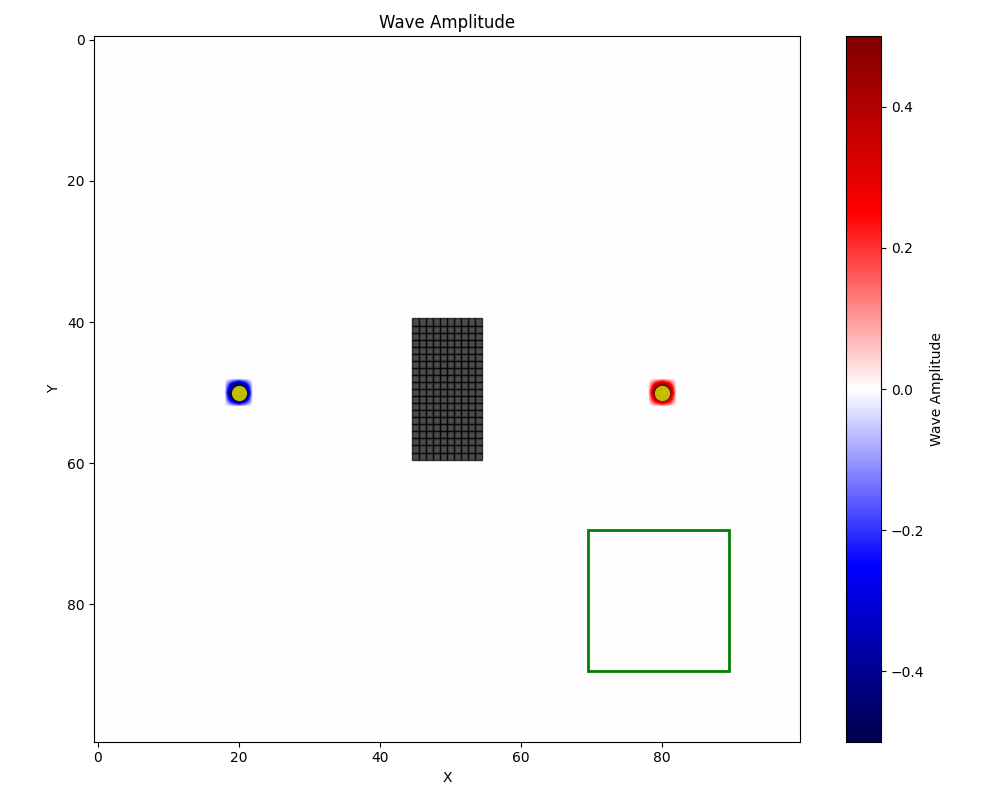
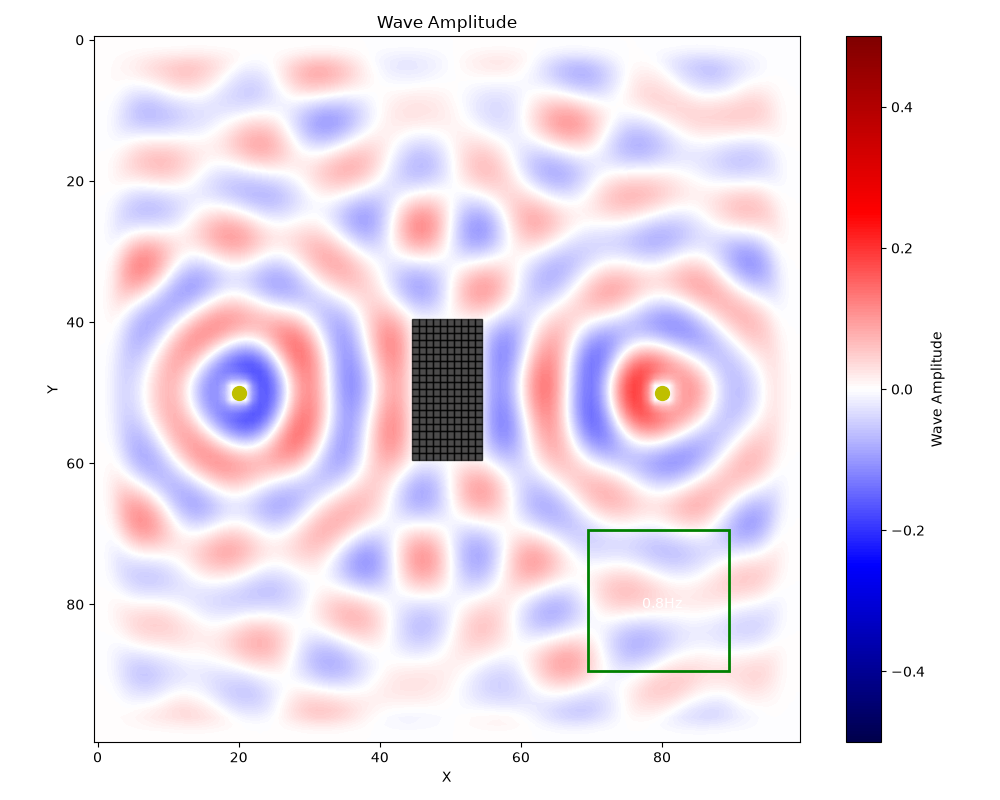
Fix wave medium: solve the damped wave equation with a CFL-stable time step
The update was written as a leapfrog wave-equation step but set
'previous = current' before using it and used the neighbour mean as the
Laplacian, so each step was a first-order damped smoothing of a driven
field: waves never left the sources (and a direct fix blew up, because
sources added to the displacement every step and the cubic term was
explicit).

WaveComputingMedium now integrates u_tt = c^2 lap(u) - gamma u_t - nl u^3:
- leapfrog with the 9-point Laplacian scaled to approximate lap(u);
- each output step (time_step) is split into substeps with
  c*dt/dx within 90% of the stencil's CFL limit, so any wave speed is stable;
- new wave_speed parameter (cells per time unit, default 10);
  'diffusion' is kept as a deprecated alias for c^2;
- damping = fraction of wave velocity kept per output step;
- hard sources and memory elements (they set the field in their cells),
  a 5-cell sponge for 'absorbing' edges, real mirror/wrap edges for
  'reflecting'/'periodic' (the old periodic rule added half of the
  opposite edge);
- resonant regions lose no energy while their dominant frequency matches
  their tuning (instead of an unbounded x1.1 per step gain);
- wave_energy() gives the conserved discrete energy; the per-pixel
  frequency/phase estimate is vectorised (the wave demo runs in ~5 s
  instead of ~60 s).

tests/test_wave_physics.py: CFL substeps, exact energy conservation
without damping, monotone decay with damping, pulse arrival at the wave
[…]

diff --git a/wave_based_computing/wave_medium.py b/wave_based_computing/wave_medium.py
@@ -1,20 +1,24 @@
 """
 Wave Computing Medium -- core simulation engine.
 
-Implements a 2D wave-like medium with sources, obstacles,
-resonant regions, and memory elements.
+A 2D medium obeying the damped wave equation
 
-Note on the update rule: it is written in the form of a leapfrog wave-equation
-step (2*u - u_prev + D*dt^2*L), but `previous` is set to `current` before it is
-used and L is the neighbour mean (not mean minus centre), so each step is in
-effect u_next = damping * (u + D*dt^2 * neighbour_mean(u)) - nonlinearity*u^3,
-plus sources and memory elements: a first-order, damped, slowly spreading driven
-field rather than a second-order wave equation. With the defaults
-(D*dt^2 = 0.002) activity stays close to the sources. Making it a true wave
-equation also needs the source and nonlinear terms rescaled (left as an open
-decision; see SESSION_LOG.md). Information is encoded in
-wave properties (amplitude, frequency, phase) and computation
-emerges from wave interactions.
+    u_tt = c^2 * laplacian(u) - gamma * u_t - nonlinearity * u^3
+
+with point sources, obstacles, resonant regions and memory elements. Information is
+encoded in wave properties (amplitude, frequency, phase) and computation emerges
+from wave interactions.
+
+Numerics: leapfrog (second order in time) with a 9-point Laplacian on a grid of
+spacing dx (cells). Each output step of length `time_step` is split into
+`substeps` internal steps dt_sub chosen so that c * dt_sub / dx satisfies the CFL
+condition of this stencil (with a safety factor), so the scheme is stable for any
+wave speed. `damping` is the fraction of wave velocity kept per output step.
+Sources and memory elements are "hard" (they set the field in their cells), the
+absorbing boundary is a 5-cell sponge, resonant regions lose no energy while
+their dominant frequency matches their tuning. (Before 2026-11-11 the update
+overwrote the previous state before using it, so it was a first-order smoothing
+rather than a wave equation; see SESSION_LOG.md.)
 """
 
 import numpy as np
@@ -26,27 +30,43 @@ from sklearn.decomposition import PCA
 
 
 class WaveComputingMedium:
+    # 9-point Laplacian: neighbour mean (kernel below) minus centre ~= LAPLACIAN_SCALE * dx^2 * laplacian(u)
+    LAPLACIAN_SCALE = 0.3
+    # Largest eigenvalue of -laplacian_h for dx = 1 (checkerboard mode: 1.6 / 0.3)
+    LAMBDA_MAX = 1.6 / 0.3
+    # Leapfrog is stable for c * dt * sqrt(LAMBDA_MAX) / dx <= 2; keep this fraction of the limit
+    CFL_SAFETY = 0.9
+    SPONGE_WIDTH = 5
+
     def __init__(self, size=(100, 100), boundary='absorbing', damping=0.99,
-                diffusion=0.2, nonlinearity=0.1, time_step=0.1):
+                wave_speed=10.0, nonlinearity=0.1, time_step=0.1, dx=1.0, diffusion=None):
         """
         Initialize a wave computing medium with specified properties.
 
         Parameters:
         - size: Size of the 2D grid as (width, height); arrays have shape (height, width)
           and are indexed [y, x]
-        - boundary: Boundary condition ('absorbing', 'reflecting', 'periodic')
-        - damping: Wave damping factor
-        - diffusion: Diffusion coefficient
-        - nonlinearity: Degree of nonlinearity in wave propagation
-        - time_step: Time step for simulation
+        - boundary: 'absorbing' (5-cell sponge), 'reflecting' (mirror, zero normal
+          gradient) or 'periodic' (wrap-around)
+        - damping: fraction of the wave velocity kept per output step (1 = lossless)
+        - wave_speed: wave speed c in grid cells per time unit
+        - nonlinearity: coefficient of the cubic restoring term (-nonlinearity * u^3)
+        - time_step: output time step (time units); split into CFL-stable substeps
+        - dx: grid spacing (cells)
+        - diffusion: deprecated alias for c^2 (if given, wave_speed = sqrt(diffusion))
         """
         self.width, self.height = size
         shape = (self.height, self.width)
         self.boundary = boundary
         self.damping = damping
-        self.diffusion = diffusion
+        if diffusion is not None:
+            wave_speed = float(np.sqrt(diffusion))
+        self.wave_speed = float(wave_speed)
+        self.diffusion = self.wave_speed ** 2       # c^2, kept for callers that read it
         self.nonlinearity = nonlinearity
         self.time_step = time_step
+        self.dx = dx
+        self.substeps, self.dt_sub = self._cfl_substeps()
 
         # Initialize wave state variables
         self.current = np.zeros(shape)
@@ -54,8 +74,9 @@ class WaveComputingMedium:
         self.frequency = np.zeros(shape)
         self.phase = np.zeros(shape)
 
-        # Create diffusion kernel
+        # Neighbour-weight kernel for the Laplacian, sponge mask for absorbing edges
         self.kernel = self._create_diffusion_kernel()
+        self.sponge = self._sponge_mask(shape)
 
         # Initialize wave sources and obstacles
         self.sources = []
@@ -72,8 +93,42 @@ class WaveComputingMedium:
         self.energy_history = []
         self.peak_frequency_history = []
 
+    def _cfl_substeps(self):
+        """Number of internal steps per output step and their length, from the CFL condition."""
+        if self.wave_speed <= 0:
+            return 1, self.time_step
+        dt_max = self.CFL_SAFETY * 2.0 * self.dx / (self.wave_speed * np.sqrt(self.LAMBDA_MAX))
+        n = max(1, int(np.ceil(self.time_step / dt_max - 1e-12)))
+        return n, self.time_step / n
+
+    def _sponge_mask(self, shape):
+        """Absorbing layer: factor exp(-(0.2 * (width - i))^2) in the i-th cell from each edge, 1 inside."""
+        mask = np.ones(shape)
+        bw = self.SPONGE_WIDTH
+        for i in range(bw):
+            f = np.exp(-(0.2 * (bw - i)) ** 2)
+            for row in (i, shape[0] - 1 - i):
+                if 0 <= row < shape[0]:
+                    mask[row, :] = np.minimum(mask[row, :], f)
+            for col in (i, shape[1] - 1 - i):
+                if 0 <= col < shape[1]:
+                    mask[:, col] = np.minimum(mask[:, col], f)
+        return mask
+
+    def laplacian(self, u):
+        """9-point Laplacian (mirror edges, or wrap-around for periodic boundaries)."""
+        bc = 'wrap' if self.boundary == 'periodic' else 'symm'
+        mean = convolve2d(u, self.kernel, mode='same', boundary=bc)
+        return (mean - u) / (self.LAPLACIAN_SCALE * self.dx ** 2)
+
+    def wave_energy(self):
+        """Discrete leapfrog energy 0.5*sum(((u - u_prev)/dt)^2) - 0.5*c^2*sum(u * L(u_prev)) (exactly conserved
+        without damping, sources, nonlinearity or sponge on a periodic grid)."""
+        v = (self.current - self.previous) / self.dt_sub
+        return 0.5 * np.sum(v ** 2) - 0.5 * self.diffusion * np.sum(self.current * self.laplacian(self.previous))
+
     def _create_diffusion_kernel(self):
-        """Create a 3x3 kernel for wave diffusion."""
+        """Create the 3x3 neighbour-weight kernel (sums to 1, zero centre) used for the Laplacian."""
         kernel = np.array([
             [0.05, 0.2, 0.05],
             [0.2, 0.0, 0.2],
@@ -114,71 +169,57 @@ class WaveComputingMedium:
             return self.memory_elements[(x, y)][0]
         return 0.0
 
-    def update(self, t):
-        """Update the wave medium for one time step (see the module note on the update rule)."""
-        self.previous = self.current.copy()
-
-        laplacian = convolve2d(self.current, self.kernel, mode='same', boundary='symm')
-
-        next_state = (2 * self.current - self.previous
-                     + self.diffusion * self.time_step**2 * laplacian)
-
-        next_state *= self.damping
-
-        # Boundary conditions
-        if self.boundary == 'absorbing':
-            boundary_mask = np.ones_like(next_state)
-            boundary_width = 5
-            for i in range(boundary_width):
-                factor = 1.0 - (i / boundary_width)**2
-                boundary_mask[i, :] *= factor
-                boundary_mask[-i-1, :] *= factor
-                boundary_mask[:, i] *= factor
-                boundary_mask[:, -i-1] *= factor
-            next_state *= boundary_mask
-        elif self.boundary == 'periodic':
-            next_state[0, :] += 0.5 * next_state[-1, :]
-            next_state[-1, :] += 0.5 * next_state[0, :]
-            next_state[:, 0] += 0.5 * next_state[:, -1]
-            next_state[:, -1] += 0.5 * next_state[:, 0]
-
-        # Nonlinearity
-        if self.nonlinearity > 0:
-            nonlinear_term = self.nonlinearity * self.current**3
-            next_state -= nonlinear_term
-
-        # Obstacles
-        next_state[self.obstacles] = 0
-
-        # Resonant regions
-        for (x_min, x_max, y_min, y_max), freq in self.resonant_regions.items():
-            if len(self.history) > 10:
-                local_freq = self._estimate_local_frequency(x_min, x_max, y_min, y_max)
-                resonance_factor = 1.0 + 0.1 * np.exp(-((local_freq - freq) / 0.1)**2)
-                next_state[y_min:y_max, x_min:x_max] *= resonance_factor
-
-        # Wave sources
+    def _source_field(self, t):
+        """Sum of the active sources' values at time t on their 3x3 Gaussian footprints, and the covered cells."""
+        field = np.zeros_like(self.current)
+        covered = np.zeros(self.current.shape, dtype=bool)
         for source in self.sources:
+            if source['duration'] is not None and t >= source['start_time'] + source['duration']:
+                continue
             x, y = source['position']
-            amplitude = source['amplitude']
-            frequency = source['frequency']
-            phase = source['phase']
+            value = source['amplitude'] * np.sin(2 * np.pi * source['frequency'] * t + source['phase'])
+            for dx in range(-1, 2):
+                for dy in range(-1, 2):
+                    nx_pos, ny_pos = x + dx, y + dy
+                    if 0 <= nx_pos < self.width and 0 <= ny_pos < self.height:
+                        field[ny_pos, nx_pos] += value * np.exp(-(dx**2 + dy**2) / 2)
+                        covered[ny_pos, nx_pos] = True
+        return field, covered
 
-            if source['duration'] is None or t < source['start_time'] + source['duration']:
-                source_value = amplitude * np.sin(2 * np.pi * frequency * t + phase)
-                for dx in range(-1, 2):
-                    for dy in range(-1, 2):
-                        nx_pos, ny_pos = x + dx, y + dy
-                        if 0 <= nx_pos < self.width and 0 <= ny_pos < self.height:
-                            weight = np.exp(-(dx**2 + dy**2) / 2)
-                            next_state[ny_pos, nx_pos] += source_value * weight
+    def _velocity_factor(self):
+        """Per-cell fraction of velocity kept per substep: `damping` spread over the substeps, and no loss in a
+        resonant region while its dominant frequency matches its tuning (match weight exp(-((f - f0)/0.1)^2))."""
+        keep = np.full(self.current.shape, self.damping ** (1.0 / self.substeps))
+        if len(self.history) > 10:
+            for (x_min, x_max, y_min, y_max), freq in self.resonant_regions.items():
+                local_freq = self._estimate_local_frequency(x_min, x_max, y_min, y_max)
+                match = np.exp(-((local_freq - freq) / 0.1) ** 2)
+                region = keep[y_min:y_max, x_min:x_max]
+                keep[y_min:y_max, x_min:x_max] = np.maximum(region, region ** (1.0 - match))
+        return keep
 
-        # Memory elements
+    def update(self, t):
+        """Advance the medium by one output step (time t -> t + time_step) in CFL-stable substeps."""
+        dt = self.dt_sub
+        keep = self._velocity_factor()
+        for k in range(self.substeps):
+            u, u_prev = self.current, self.previous
+            accel = self.diffusion * self.laplacian(u)
+            if self.nonlinearity > 0:
+                accel = accel - self.nonlinearity * u ** 3
+            next_state = u + keep * (u - u_prev) + dt ** 2 * accel
+            next_state[self.obstacles] = 0
+            if self.boundary == 'absorbing':
+                next_state *= self.sponge
+                u = u * self.sponge
+            field, covered = self._source_field(t + (k + 1) * dt)
+            next_state[covered] = field[covered]
+            for (x, y), (value, _) in self.memory_elements.items():
+                next_state[y, x] = value
+            self.previous, self.current = u, next_state
+
         for (x, y), (value, decay_rate) in list(self.memory_elements.items()):
             self.memory_elements[(x, y)] = (value * decay_rate, decay_rate)
-            next_state[y, x] += 0.1 * value
-
-        self.current = next_state
 
         if len(self.history) > 5:
             self._update_frequency_phase_estimates()
@@ -205,22 +246,17 @@ class WaveComputingMedium:
         return 0.0
 
     def _update_frequency_phase_estimates(self):
-        """Update local frequency and phase estimates."""
+        """Update local frequency (sign changes over the last 10 frames) and phase estimates."""
         if len(self.history) < 10:
             return
         recent = np.array(self.history[-10:])
-        for y in range(self.height):
-            for x in range(self.width):
-                series = recent[:, y, x]
-                crossings = np.sum(np.diff(np.signbit(series)))
-                self.frequency[y, x] = crossings / (10 * self.time_step) / 2
-                min_val = np.min(series)
-                max_val = np.max(series)
-                if max_val > min_val:
-                    normalized = (self.current[y, x] - min_val) / (max_val - min_val)
-                    self.phase[y, x] = normalized * 2 * np.pi
-                else:
-                    self.phase[y, x] = 0
+        crossings = np.sum(np.diff(np.signbit(recent), axis=0), axis=0)
+        self.frequency = crossings / (10 * self.time_step) / 2
+        min_val = recent.min(axis=0)
+        max_val = recent.max(axis=0)
+        span = max_val - min_val
+        safe = np.where(span > 0, span, 1.0)
+        self.phase = np.where(span > 0, (self.current - min_val) / safe * 2 * np.pi, 0.0)
 
     def run_simulation(self, steps=100, visualize=False):
         """Run simulation for specified number of steps."""

diff --git a/tests/test_wave_physics.py b/tests/test_wave_physics.py
@@ -1,0 +1,87 @@
+"""Wave medium physics: a real second-order wave equation with a CFL-stable internal time step.
+
+The old update overwrote `previous` before using it and used the neighbour mean as the Laplacian, so it was a
+first-order smoothing that kept activity at the sources (see SESSION_LOG.md, 2026-11-11).
+"""
+import os
+import sys
+
+import numpy as np
+
+sys.path.insert(0, os.path.dirname(os.path.dirname(os.path.abspath(__file__))))
+
+from wave_based_computing.wave_medium import WaveComputingMedium  # noqa: E402
+
+
+def bump(medium, x, y, width=2.0):
+    yy, xx = np.mgrid[0:medium.height, 0:medium.width]
+    g = np.exp(-((xx - x) ** 2 + (yy - y) ** 2) / (2 * width ** 2))
+    medium.current[:] = g
+    medium.previous[:] = g          # released at rest
+
+
+def test_time_step_respects_cfl():
+    """Each output step is split into substeps with c * dt_sub / dx below the stability limit of the stencil."""
+    for c in (0.5, 10.0, 40.0):
+        m = WaveComputingMedium(size=(20, 20), wave_speed=c, time_step=0.1)
+        assert m.substeps >= 1
+        assert m.dt_sub * m.substeps == np.float64(0.1) or abs(m.dt_sub * m.substeps - 0.1) < 1e-12
+        assert c * m.dt_sub * np.sqrt(m.LAMBDA_MAX) <= 2.0 * m.CFL_SAFETY + 1e-12
+
+
+def test_energy_conserved_without_damping():
+    """Periodic grid, no damping, no nonlinearity, no sources: the leapfrog energy is conserved."""
+    m = WaveComputingMedium(size=(40, 40), boundary='periodic', damping=1.0, nonlinearity=0.0)
+    bump(m, 20, 20)
+    m.update(0.0)
+    e0 = m.wave_energy()
+    for k in range(1, 200):
+        m.update(k * m.time_step)
+    assert abs(m.wave_energy() - e0) / e0 < 1e-9
+
+
+def test_energy_decays_with_damping():
+    m = WaveComputingMedium(size=(40, 40), boundary='periodic', damping=0.98, nonlinearity=0.0)
+    bump(m, 20, 20)
+    m.update(0.0)
+    energies = [m.wave_energy()]
+    for k in range(1, 100):
+        m.update(k * m.time_step)
+        energies.append(m.wave_energy())
+    assert all(b <= a * (1 + 1e-12) for a, b in zip(energies, energies[1:]))
+    assert energies[-1] < 0.5 * energies[0]
+
+
+def test_pulse_travels_at_wave_speed_and_oscillates():
+    m = WaveComputingMedium(size=(81, 81), boundary='absorbing', damping=1.0, nonlinearity=0.0, wave_speed=10.0)
+    bump(m, 40, 40, width=1.5)
+    arrival, centre = None, []
+    for k in range(40):
+        m.update(k * m.time_step)
+        centre.append(m.current[40, 40])
+        if arrival is None and abs(m.current[40, 70]) > 0.01:
+            arrival = (k + 1) * m.time_step
+    assert min(centre) < 0                                   # second order in time: the centre swings through zero
+    assert arrival is not None and 2.0 < arrival < 3.6       # 30 cells at 10 cells per time unit -> about 3
+
+
+def test_stable_at_defaults_with_sources():
+    """The demo set-up (two sources, obstacle, resonant box) stays bounded over a long run."""
+    m = WaveComputingMedium(size=(100, 100), boundary='absorbing')
+    m.add_source((20, 50), amplitude=0.5, frequency=0.8)
+    m.add_source((80, 50), amplitude=0.5, frequency=0.8, phase=np.pi)
+    m.add_obstacle(45, 55, 40, 60)
+    m.add_resonant_region(70, 90, 70, 90, frequency=0.8)
+    m.run_simulation(steps=400)
+    assert np.isfinite(m.current).all()
+    assert np.abs(m.current).max() < 2.0
+    assert np.abs(m.current[50, 30:40]).max() > 0.05        # waves leave the sources
+    assert m.current[40:60, 45:55].max() == 0                # obstacle held at zero
+
+
+def test_reflecting_and_periodic_boundaries_stable():
+    for b in ('reflecting', 'periodic'):
+        m = WaveComputingMedium(size=(30, 40), boundary=b)
+        m.add_source((10, 10), amplitude=0.5, frequency=0.6)
+        m.run_simulation(steps=300)
+        assert np.isfinite(m.current).all() and np.abs(m.current).max() < 3.0
